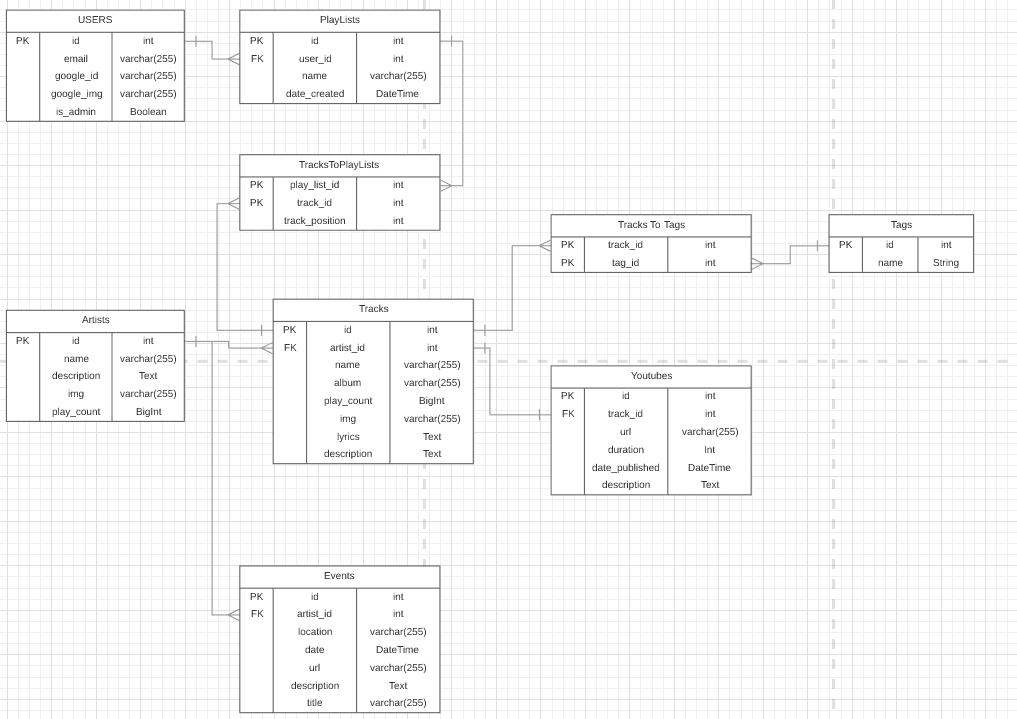
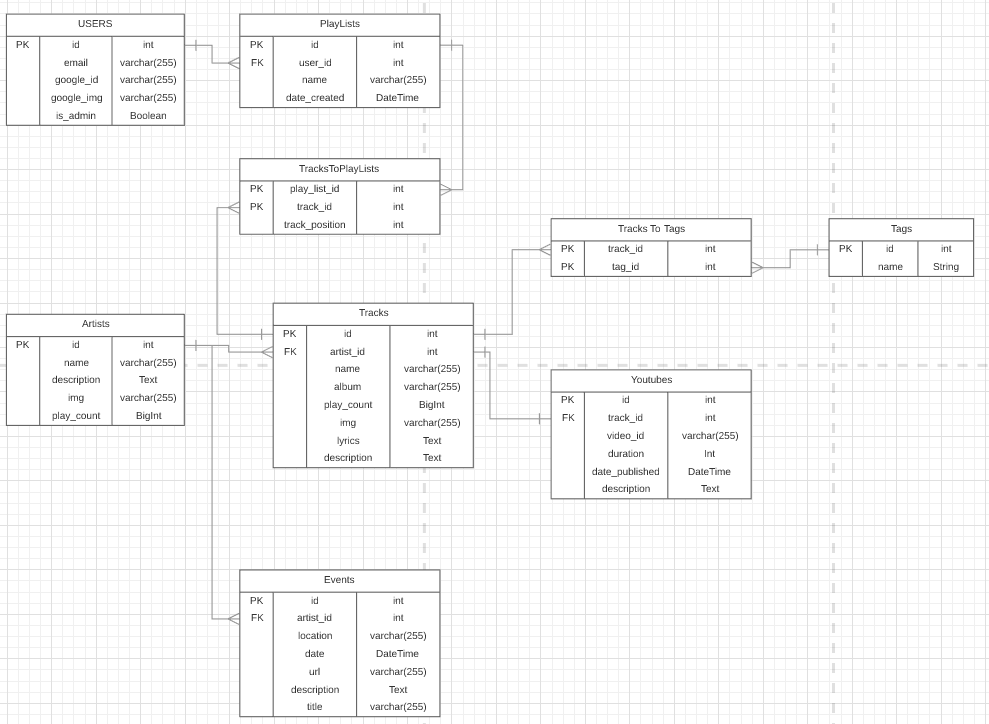
change in DB youtube field + artists_example.json added + change in example.json + new ERD (url --> video_id)

diff --git a/db/scripts/mysql/fill_database.py b/db/scripts/mysql/fill_database.py
@@ -35,7 +35,7 @@ class MysqlScripts:
                     track_id = track.insert(cursor)
 
                     # Youtube
-                    youtube = Youtube(track_id, youtube_dict['url'], youtube_dict['duration'], youtube_dict['date_published'], youtube_dict['description'])
+                    youtube = Youtube(track_id, youtube_dict['video_id'], youtube_dict['duration'], youtube_dict['date_published'], youtube_dict['description'])
                     youtube.insert(cursor)
 
                     # Tag
@@ -62,4 +62,4 @@ class MysqlScripts:
 
 if __name__ == "__main__":
     mysql_scripts = MysqlScripts('root', 'fogi')
-    mysql_scripts.insert('example.json')
+    mysql_scripts.insert('collect_example.json')

diff --git a/db/entities/entities.py b/db/entities/entities.py
@@ -79,9 +79,9 @@ class TrackToPlayList(AbstractTable):
 class Youtube(AbstractTable):
     table_name = 'youtubes'
 
-    def __init__(self, track_id, url, duration, date_published, description):
+    def __init__(self, track_id, video_id, duration, date_published, description):
         self.track_id = track_id
-        self.url = url
+        self.video_id = video_id
         self.duration = duration
         self.date_published = date_published
         self.description = description
